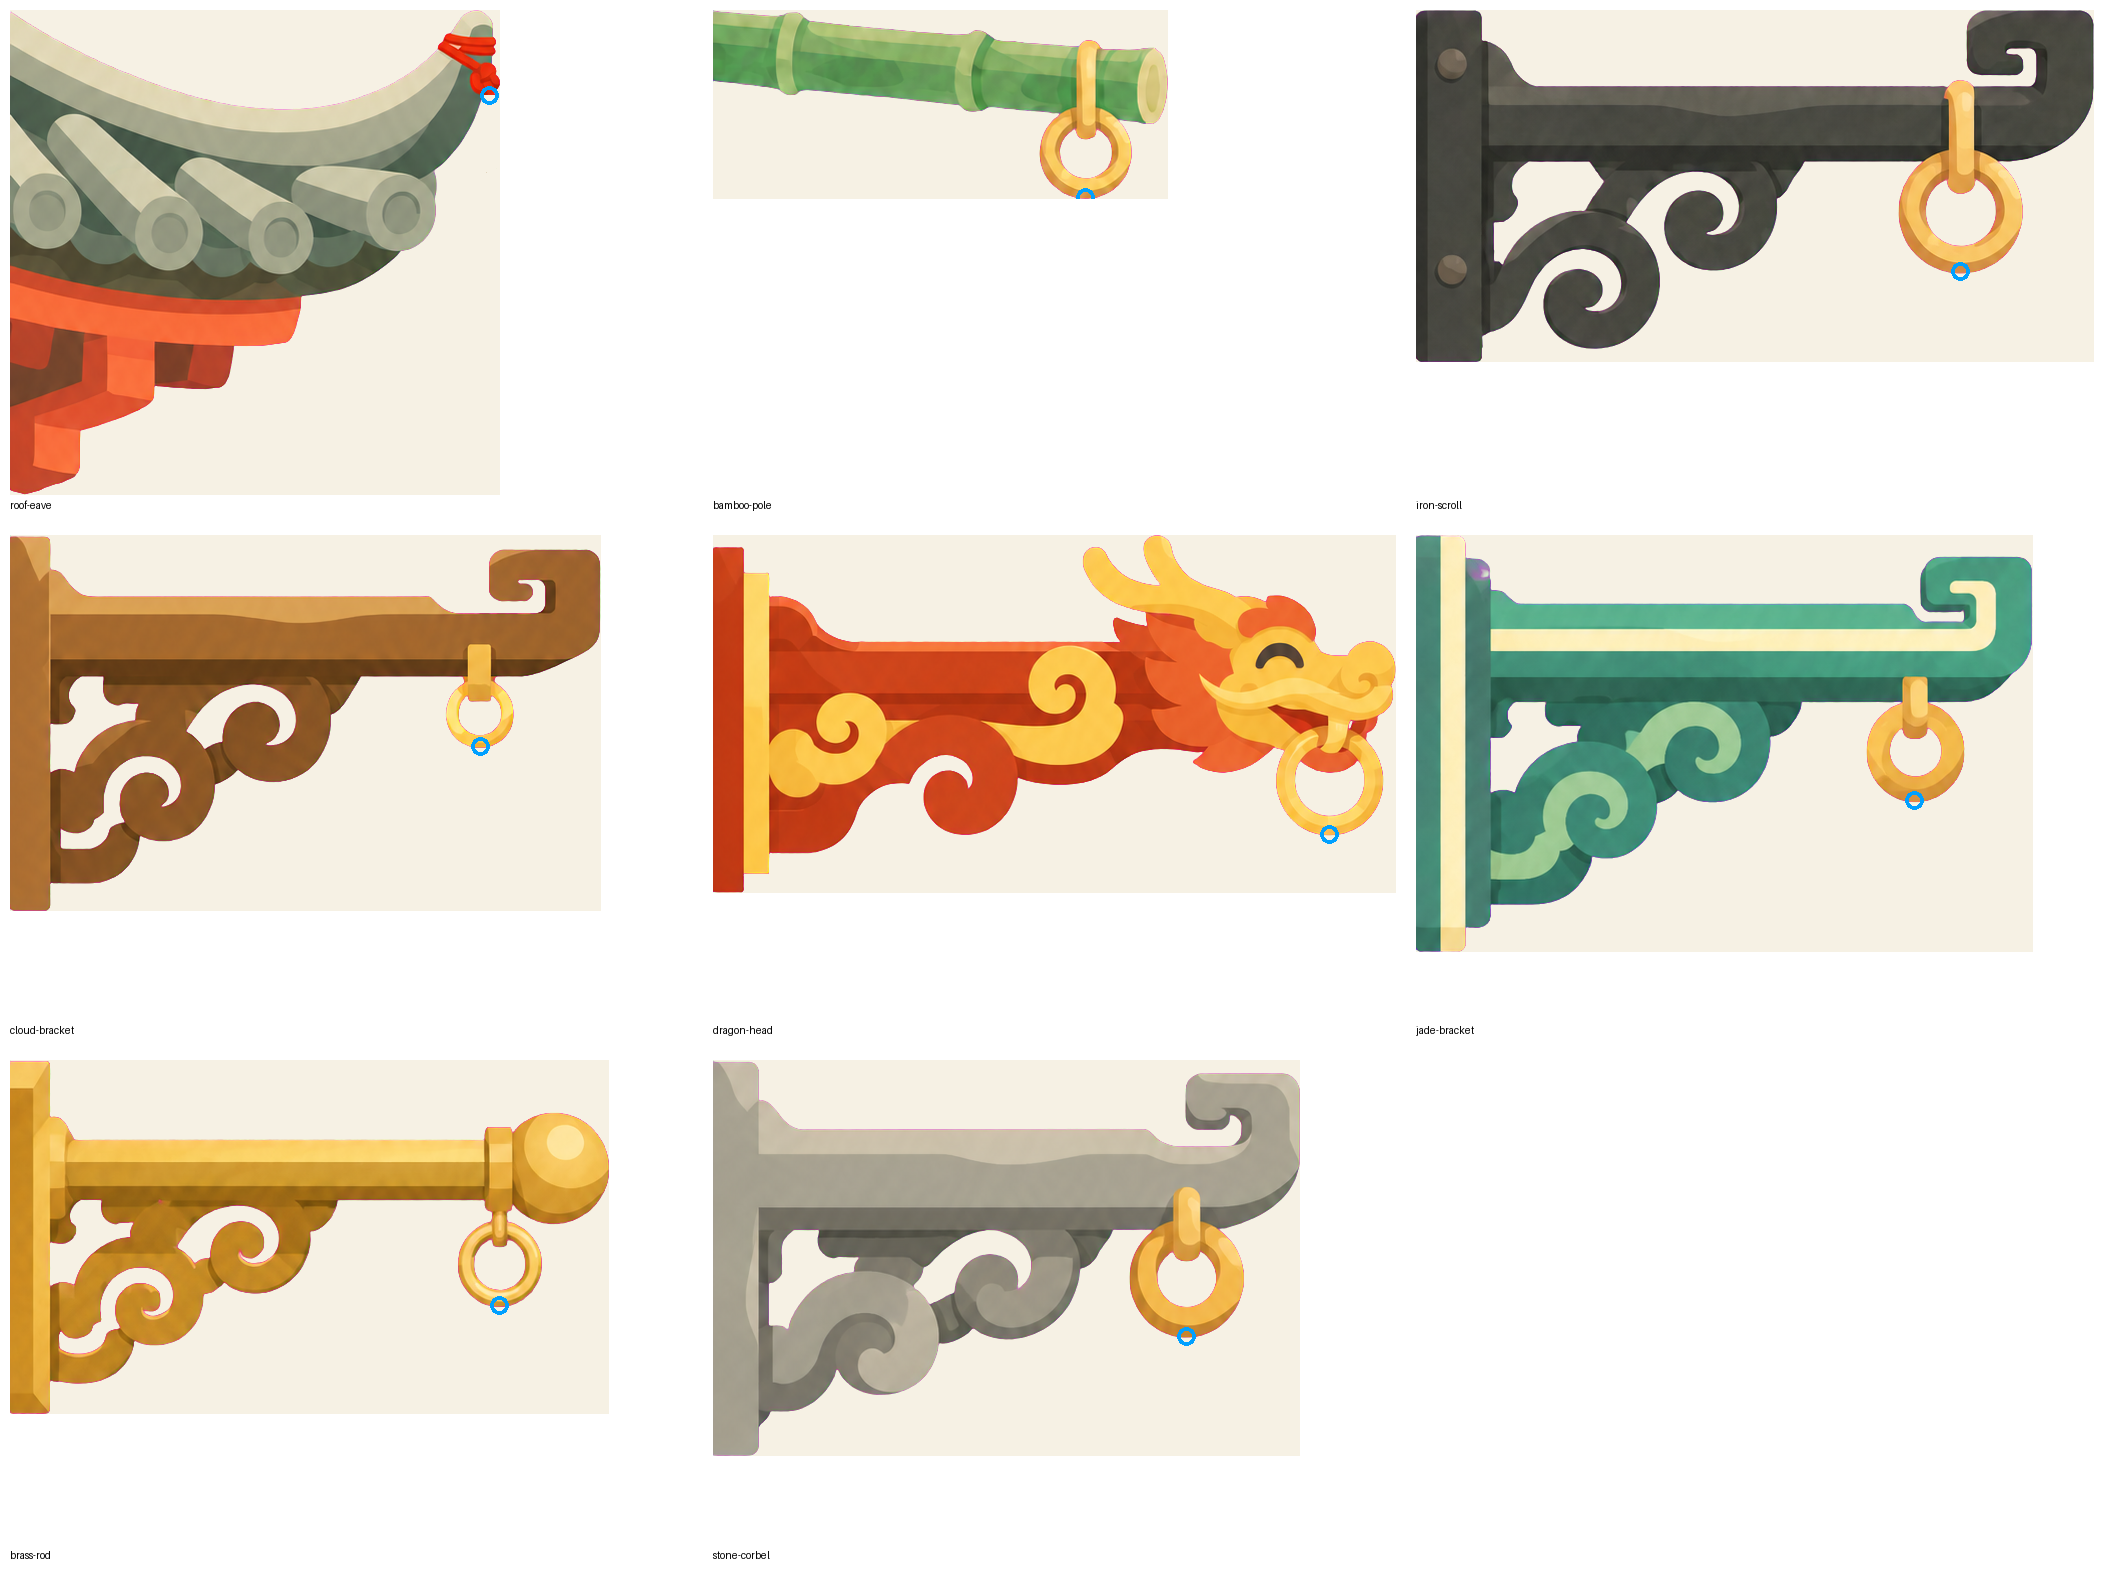
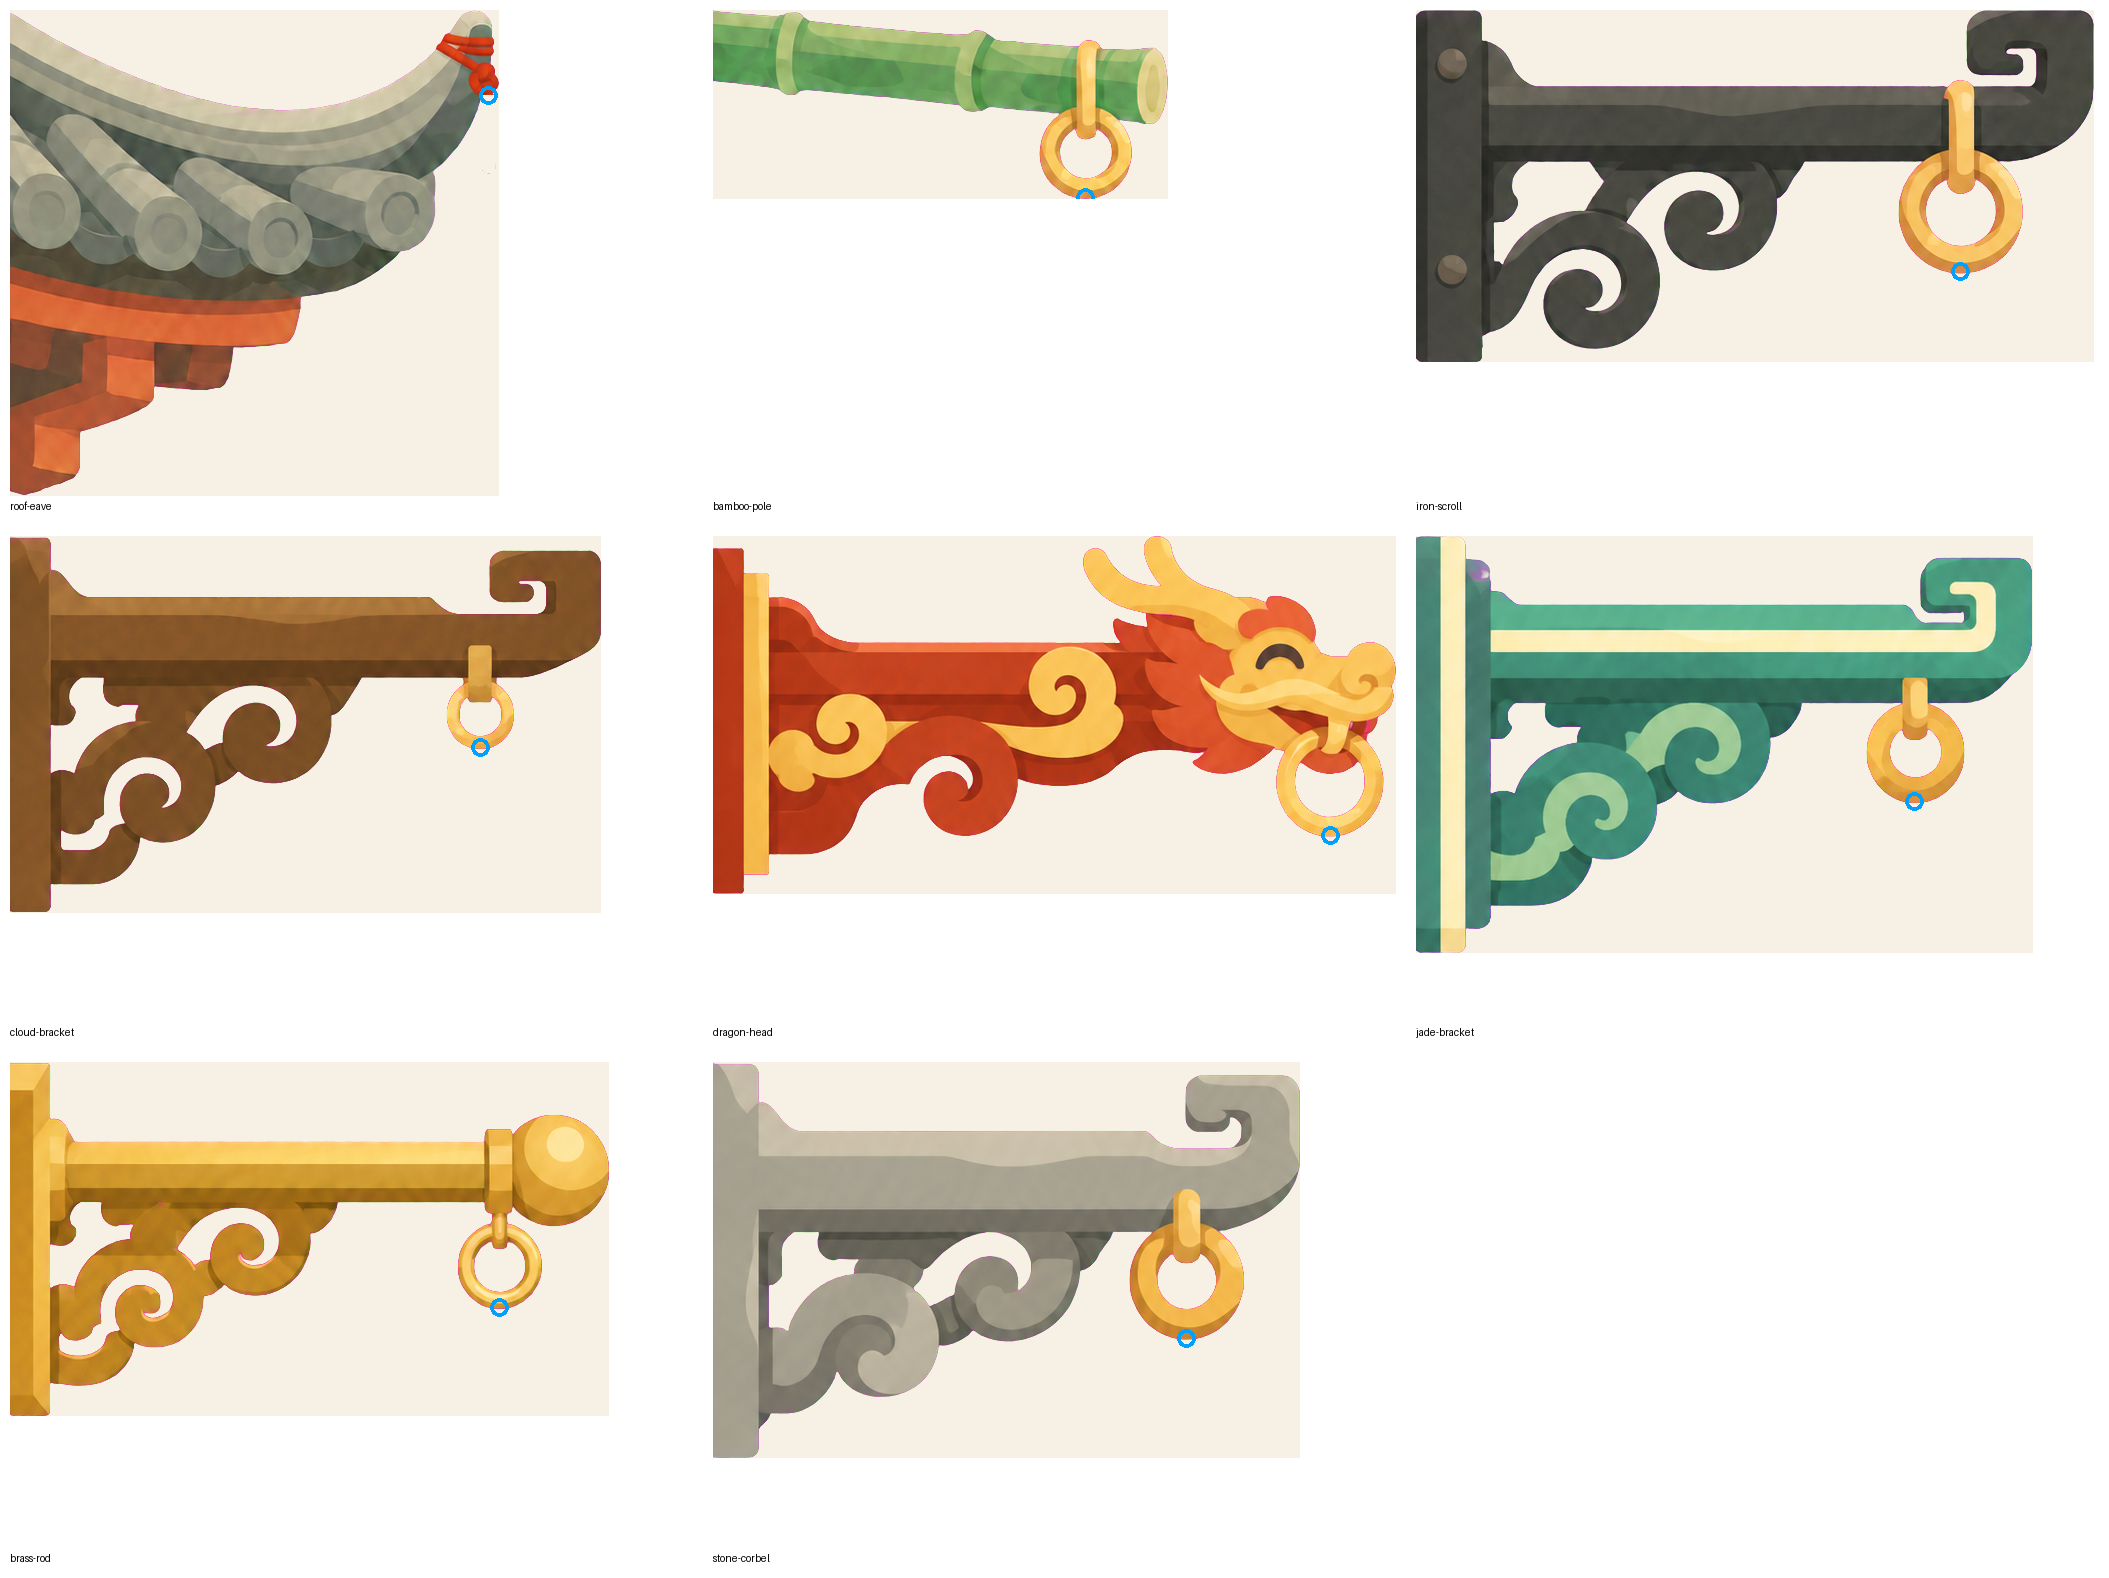
Mounts back to the originals (owner: start again from what we had originally): the redraws, the flattening and the clean-up taken off; tassels, sizes and ropes kept

diff --git a/tools/art/hang.py b/tools/art/hang.py
@@ -97,26 +97,6 @@ def clean_cord(obj):
     return Image.fromarray(a), n
 
 
-def clean_master(im):
-    """The masters come with a blotchy grain in their flat colour (the owner: "this weird artifact pattern", and on the
-    redrawn ones, "there's still some"), and a pink line round the edge from the magenta they were keyed off. Four
-    bilateral passes flatten each tone and keep the edges between them (the redrawn masters are a few flat tones, like
-    the branches); the edge pixels take the colour of the nearest solid pixel inside."""
-    import cv2
-    from scipy import ndimage
-    a = np.asarray(im).copy()
-    rgb = np.ascontiguousarray(a[..., :3])
-    for _ in range(4):
-        rgb = cv2.bilateralFilter(rgb, 9, 35, 6)
-    solid = ndimage.binary_erosion(a[..., 3] == 255, iterations=2)
-    if solid.any():
-        _, (iy, ix) = ndimage.distance_transform_edt(~solid, return_indices=True)
-        edge = ~solid & (a[..., 3] > 0)
-        rgb[edge] = rgb[iy[edge], ix[edge]]
-    a[..., :3] = rgb
-    return Image.fromarray(a)
-
-
 def rope(W, H, x, y0, y1, knot=None):
     """A rope ROPE_W wide down x from y0 to y1, on a W x H layer, and a knot centred at (x, knot) if given: drawn 4x
     and scaled down, so its edges are smooth."""
@@ -216,9 +196,8 @@ def main():
         top = None if j["out"] in NO_TASSEL else TASSEL_TOP.get(j["out"]) or tassel_top(obj)
         src = GREEN if j["out"] in GREENS else RED
         tops[j["out"]] = top and {"top": top, "from": os.path.basename(by_out[src]["file"]), "fromTop": two[src][1]}
-        if m["file"] not in cleaned:   # cleaned once, and saved for the path editor's pages to draw
-            cleaned[m["file"]] = clean_master(Image.open(os.path.join(MASTERS, m["file"])).convert("RGBA"))
-            cleaned[m["file"]].save(os.path.join(MASTERS, "clean-" + m["file"]))
+        if m["file"] not in cleaned:   # each master read once
+            cleaned[m["file"]] = Image.open(os.path.join(MASTERS, m["file"])).convert("RGBA")
         out = hang(obj, cleaned[m["file"]], m["tie"],
                    cord=own.get("cord", st.get("cord", CORD)) + round(m.get("drop", 0) * MOUNT), size=own.get("size", st.get("size", 1.0)), band=m.get("band", 0),
                    tassel=top, tassel_h=TASSEL_H * st.get("tassel", 1.0) * own.get("tassel", 1.0), tassel_from=two[src])

diff --git a/tools/art/masters.py b/tools/art/masters.py
@@ -19,11 +19,11 @@ OUT = os.path.join(HERE, "masters")
 
 # master name -> the picture kept for it (the review's name, in out/final)
 MASTERS = {
-    "roof-eave": "mount-roof-eave-flat",        # redrawn in the branches' style (group "mounts2"; the painted one, mount-roof-eave-tie, felt too soft)
+    "roof-eave": "mount-roof-eave-tie",         # take 2, a red cord tied round its tip (group "rings"; the ring looked fake)
     "bamboo-pole": "mount-bamboo-pole-ring",    # its red loop swapped for a brass ring (group "rings")
     "iron-scroll": "mount-iron-scroll-take2",
-    "cloud-bracket": "mount-cloud-bracket-flat",   # redrawn in the branches' style (group "mounts2")
-    "dragon-head": "mount-dragon-head-flat",       # redrawn in the branches' style (group "mounts2")
+    "cloud-bracket": "mount-cloud-bracket",
+    "dragon-head": "mount-dragon-head",
     "jade-bracket": "mount-jade-bracket-take2",
     "brass-rod": "mount-brass-rod",
     "stone-corbel": "mount-stone-corbel",
@@ -31,7 +31,7 @@ MASTERS = {
 # until the ring swaps are made, the pictures they're made from
 FALLBACK = {"mount-roof-eave-tie": "mount-roof-eave-ring", "mount-bamboo-pole-ring": "mount-bamboo-pole"}
 TIE = {"mount-roof-eave-ring": (403, 240)}   # picture -> (x, y) by hand, where the found one is wrong (the eave's orange woodwork reads as brass)
-CORD_END = {"mount-roof-eave-tie", "mount-roof-eave-flat"}           # tied with a cord, not a ring: the tie point is the cord's end
+CORD_END = {"mount-roof-eave-tie"}           # tied with a cord, not a ring: the tie point is the cord's end
 
 
 def brass(a):
